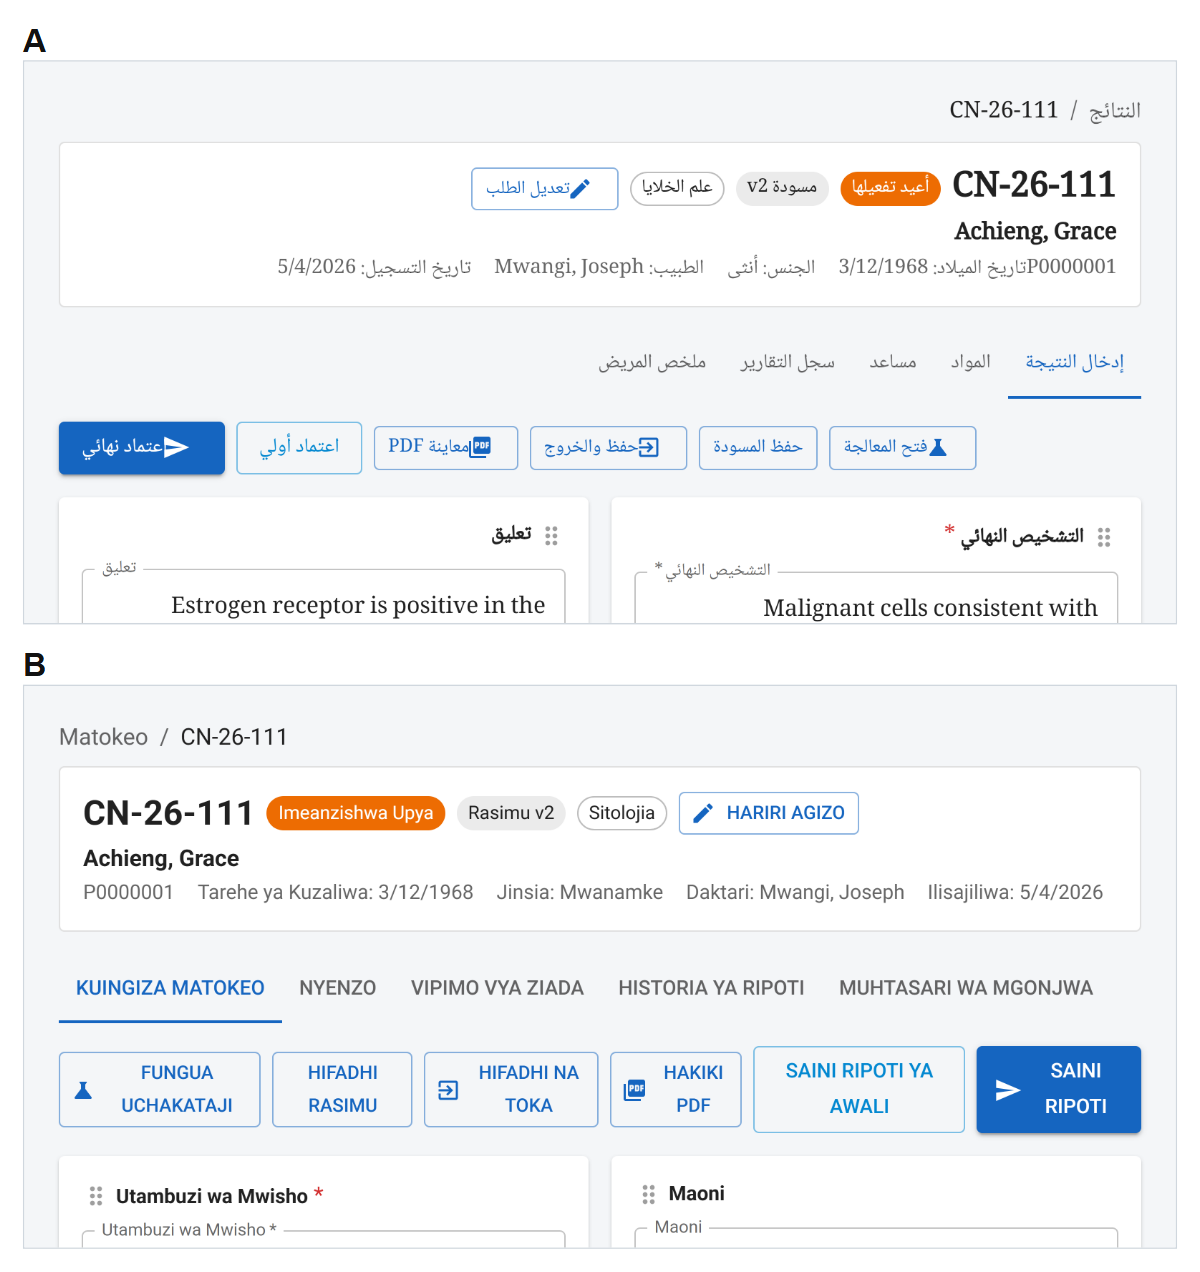
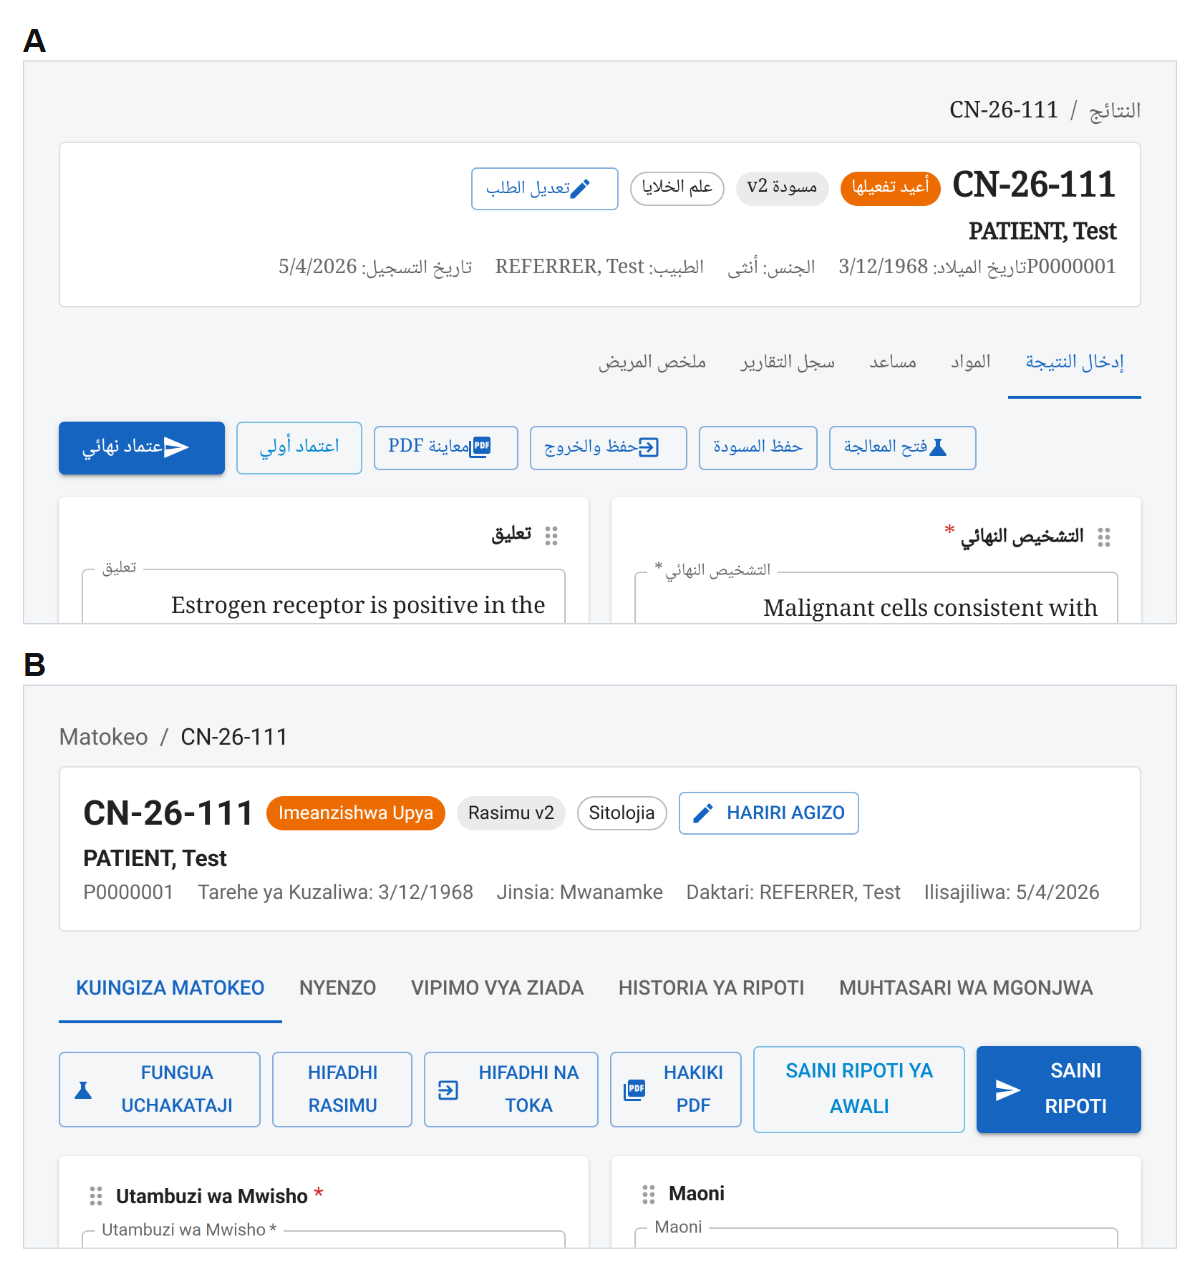
fix(figures): use placeholder names for the figure patient and clinician
The figure case carried "Achieng, Grace" and "Mwangi, Joseph" — names that read as
a real person's record. Beside the reporting pathologist "ZZZTEST-STAFF, Dr. Alpha",
whose artificiality is obvious, the patient looked real by contrast. They are now
"PATIENT, Test" and "REFERRER, Test".

prisma/seed.ts already stated the rule for the corpus: a plausible name on a report
PDF is a hazard, because nothing about the record itself would say it is not a
patient. The figure fixture was the one place that did not follow it — and the
figures are the part of this work most likely to be read outside the repository, in
a paper and now on the landing page.

The repository had been arguing both sides of this. figure-case.ts claimed
"deliberately unmistakable placeholders rather than plausible names" while holding
plausible ones, and the generated figures README claimed the opposite. Both now
state the same rule.

Only the two constants changed. All seven figures were re-captured against a freshly
seeded corpus and re-composed: panel geometry, printed text size and dpi are
identical, and the diagnosis, comment, material hierarchy and report versions are
unchanged. The patient name is in frame only in Figures 3 and 6.

This changes the journal figures as well as the README copies — both come from the
same capture — so the figure files sent to the journal need replacing with this set.

diff --git a/apps/frontend/src/tests/e2e/manuscript/helpers/figure-case.ts b/apps/frontend/src/tests/e2e/manuscript/helpers/figure-case.ts
@@ -23,20 +23,25 @@ import { expect, type APIRequestContext } from '@playwright/test';
  *
  * A figure in a published paper should not be able to be read as a real person's
  * record, however synthetic the data behind it is. Names that look like names
- * invite that reading; "Last, First" cannot be mistaken for anyone, and doubles as
- * a key to the surname-first display format. They are also distinctive enough for
- * the fixture to find its own case again on a re-run.
+ * invite that reading; "PATIENT, Test" cannot be mistaken for anyone, and doubles
+ * as a key to the surname-first format the panels display. This is the same
+ * judgement `prisma/seed.ts` makes for the corpus — a plausible name on a report
+ * PDF is a hazard, because nothing about the record itself would say it is not a
+ * patient.
+ *
+ * The surnames are distinct from the corpus's own `ZZZTEST-PATIENT`, which all 300
+ * seeded patients share, so the surname still identifies this one case on a re-run.
  */
 export const FIGURE_PATIENT = {
-  lastName: 'Achieng',
-  firstName: 'Grace',
+  lastName: 'PATIENT',
+  firstName: 'Test',
   dateOfBirth: '1968-03-12',
   sex: 'Female',
 } as const;
 
 export const FIGURE_CLINICIAN = {
-  lastName: 'Mwangi',
-  firstName: 'Joseph',
+  lastName: 'REFERRER',
+  firstName: 'Test',
 } as const;
 
 /**

diff --git a/scripts/build-manuscript-figures.ts b/scripts/build-manuscript-figures.ts
@@ -919,9 +919,9 @@ function writeReadme(outputs: ComposedOutput[]): void {
     'pathologist are deterministic synthetic records created by the seed and the',
     'figure fixture; the accession, patient identifier, dates of birth and',
     'registration dates are generated by the application from that synthetic input.',
-    'They are plausible-looking on purpose — placeholder strings would read as an',
-    'unfinished figure — but no one of that name is being depicted, and none of the',
-    'values traces to a real record.',
+    'The names are placeholders rather than plausible ones — "PATIENT, Test",',
+    '"REFERRER, Test", "ZZZTEST-STAFF, Dr. Alpha" — so no panel can be read as a real',
+    'person\'s record, and no value in these figures traces to a real one.',
     ''
   );
 

diff --git a/docs/manuscript_figures_changes.md b/docs/manuscript_figures_changes.md
@@ -159,11 +159,38 @@ from the journal PNG is pixel density.
 
 | Figure | Journal PNG | Web copy |
 | --- | --- | --- |
-| 3 Accessioning | 3344 × 3552 | 1200 × 1275, 95 KB |
-| 5 Ancillary, reporting, versioning | 3152 × 3308 | 1200 × 1259, 150 KB |
-| 6 Multilingual interfaces | 3344 × 3544 | 1200 × 1272, 188 KB |
+| 3 Accessioning | 3344 × 3552 | 1200 × 1275, 93 KB |
+| 5 Ancillary, reporting, versioning | 3152 × 3308 | 1200 × 1259, 149 KB |
+| 6 Multilingual interfaces | 3344 × 3544 | 1200 × 1272, 186 KB |
 
 They are written to `docs/images/`, which is tracked, unlike `docs/manuscript/`. The
 composer refuses to write a web copy over 250 KB, so the tracked set cannot quietly
 grow. Checksums are recorded in `docs/images/README.md` and in the checksum table of
 `docs/manuscript/figures/README.md`.
+
+## The figure case now uses placeholder names
+
+The figure patient and referring clinician were `Achieng, Grace` and `Mwangi, Joseph`
+— plausible names. They are now **`PATIENT, Test`** and **`REFERRER, Test`**.
+
+The repository already made this judgement for the seeded corpus. `prisma/seed.ts`
+says it outright: "a plausible name like 'Dr. Emily Johnson' on a report PDF is a
+hazard: nothing about the record itself would say 'this is not a patient'." The
+figure fixture was the one place that did not follow it, and the figures are the part
+of this work most likely to be read outside the repository — in a paper, and now on
+the repository landing page beside the pathologist `ZZZTEST-STAFF, Dr. Alpha`, whose
+obvious artificiality made the patient look real by contrast.
+
+The repository had also been arguing both sides. `figure-case.ts` claimed
+"deliberately unmistakable placeholders rather than plausible names" while holding
+plausible ones; the generated figures README claimed the opposite, that the names were
+"plausible-looking on purpose". Both now state the same rule.
+
+Only the two name constants changed. All seven figures were re-captured and
+re-composed from a freshly seeded corpus; panel geometry, printed text size and dpi
+are identical to the table above, and the diagnosis, comment, material hierarchy and
+report versions are unchanged. The patient name is visible in Figures 3 and 6 only —
+Figures 4, 5, S1, S2 and S3 never had it in frame.
+
+**Journal figures are affected too**, not only the README copies: both come from the
+same capture. Figures uploaded to the journal need replacing with this set.

diff --git a/docs/images/README.md b/docs/images/README.md
@@ -2,8 +2,8 @@
 
 Generated by `pnpm figures:compose` — do not edit by hand.
 
-- Commit: `89068dc26b55867161342ba5dfdbfd0efc8e74e4`
-- Generated: 2026-08-14T17:01:31.093Z
+- Commit: `e0ab3e35abd0ca7a82bfac595f74f8bcd8aea031`
+- Generated: 2026-08-14T19:15:49.922Z
 - Browser: Chromium 147.0.7727.15
 
 Web-sized copies of the manuscript figures, rendered from the same layout in the
@@ -14,9 +14,9 @@ live with the originals — rebuild them with the commands in that README.
 
 | File | Figure | Pixels | Size | SHA-256 |
 | --- | --- | ---: | ---: | --- |
[6 lines of base64/hex data omitted]
 
 Every value visible in these figures is synthetic, originating either from
 `prisma/seed.ts` or from the API-created figure case. No clinical or
